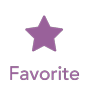
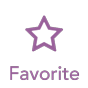
FIX - removed top and bottom edge inset from the tv height calculation, changed WineDetails UI, wired up new favorite button

Changed region(s): [[0.3409, 0.25, 0.6591, 0.5227]]

diff --git a/wineguide/views/WineDetailsVHTV.m b/wineguide/views/WineDetailsVHTV.m
@@ -30,36 +30,15 @@
 -(void)setupTextViewWithWine:(Wine *)wine fromRestaurant:(Restaurant *)restaurant
 {
     NSString *textViewString = @"";
-    NSRange nameRange = NSMakeRange(0, 0);
-    NSRange vintageRange = NSMakeRange(0, 0);
-    NSRange varietalRange = NSMakeRange(0, 0);
+    
     NSRange regionRange = NSMakeRange(0, 0);
     NSRange countryRange = NSMakeRange(0, 0);
     NSRange vineyardRange = NSMakeRange(0, 0);
     NSRange restaurantRange = NSMakeRange(0, 0);
     
-    if(wine.name){
-        nameRange = NSMakeRange([textViewString length], [wine.name length]);
-        textViewString = [textViewString stringByAppendingString:[wine.name capitalizedString]];
-    }
-    if(wine.vintage){
-        NSString *vintageString = [wine.vintage stringValue];
-        vintageRange = NSMakeRange([textViewString length], [vintageString length]);
-        textViewString = [textViewString stringByAppendingString:[NSString stringWithFormat:@"\n%@",[vintageString capitalizedString]]];
-    }
-    if(wine.varietals){
-        NSString *varietalsString = @" - ";
-        NSArray *varietals = [wine.varietals sortedArrayUsingDescriptors:@[[NSSortDescriptor sortDescriptorWithKey:@"name" ascending:YES]]];
-        for(Varietal *varietal in varietals){
-            varietalsString = [varietalsString stringByAppendingString:[NSString stringWithFormat:@"%@, ",varietal.name]];
-        }
-        varietalsString = [varietalsString substringToIndex:[varietalsString length]-2];
-        varietalRange = NSMakeRange([textViewString length]+1, [varietalsString length]);
-        textViewString = [textViewString stringByAppendingString:[varietalsString capitalizedString]];
-    }
     if(wine.region){
         regionRange = NSMakeRange([textViewString length]+1, [wine.region length]);
-        textViewString = [textViewString stringByAppendingString:[NSString stringWithFormat:@"\n%@",[wine.region capitalizedString]]];
+        textViewString = [textViewString stringByAppendingString:[wine.region capitalizedString]];
     }
     if(wine.country){
         if(wine.region){
@@ -110,9 +89,6 @@
     [self.textStorage addAttribute:NSForegroundColorAttributeName
                              value:[ColorSchemer sharedInstance].textPrimary
                              range:NSMakeRange(0, [self.textStorage length])];
-    [self.textStorage addAttribute:NSFontAttributeName
-                                        value:[UIFont preferredFontForTextStyle:UIFontTextStyleHeadline]
-                                        range:nameRange];
     [self.textStorage addAttribute:NSForegroundColorAttributeName
                                         value:[ColorSchemer sharedInstance].textSecondary
                                         range:restaurantRange];

diff --git a/wineguide/views/WineNameVHTV.m b/wineguide/views/WineNameVHTV.m
@@ -1,0 +1,71 @@
+//
+//  WineNameVHTV.m
+//  Gimme
+//
+//  Created by Charles Feinn on 12/13/13.
+//  Copyright (c) 2013 AppSimple. All rights reserved.
+//
+
+#import "WineNameVHTV.h"
+#import "Varietal.h"
+#import "Brand.h"
+#import "TastingNote.h"
+#import "WineUnit.h"
+#import "ColorSchemer.h"
+
+@implementation WineNameVHTV
+
+- (id)initWithFrame:(CGRect)frame
+{
+    self = [super initWithFrame:frame];
+    if (self) {
+        // Initialization code
+    }
+    return self;
+}
+
+
+#define V_HEIGHT 20
+
+-(void)setupTextViewWithWine:(Wine *)wine fromRestaurant:(Restaurant *)restaurant
+{
+    NSString *textViewString = @"";
+    NSRange nameRange = NSMakeRange(0, 0);
+    NSRange vintageRange = NSMakeRange(0, 0);
+    NSRange varietalRange = NSMakeRange(0, 0);
+    
+    if(wine.name){
+        nameRange = NSMakeRange([textViewString length], [wine.name length]);
+        textViewString = [textViewString stringByAppendingString:[wine.name capitalizedString]];
+    }
+    if(wine.vintage){
+        NSString *vintageString = [wine.vintage stringValue];
+        vintageRange = NSMakeRange([textViewString length], [vintageString length]);
+        textViewString = [textViewString stringByAppendingString:[NSString stringWithFormat:@"\n%@",[vintageString capitalizedString]]];
+    }
+    if(wine.varietals){
+        NSString *varietalsString = @" - ";
+        NSArray *varietals = [wine.varietals sortedArrayUsingDescriptors:@[[NSSortDescriptor sortDescriptorWithKey:@"name" ascending:YES]]];
+        for(Varietal *varietal in varietals){
+            varietalsString = [varietalsString stringByAppendingString:[NSString stringWithFormat:@"%@, ",varietal.name]];
+        }
+        varietalsString = [varietalsString substringToIndex:[varietalsString length]-2];
+        varietalRange = NSMakeRange([textViewString length]+1, [varietalsString length]);
+        textViewString = [textViewString stringByAppendingString:[varietalsString capitalizedString]];
+    }
+    
+    NSAttributedString *attributedText = [[NSAttributedString alloc] initWithString:textViewString];
+    self.attributedText = attributedText;
+    self.font = [UIFont preferredFontForTextStyle:UIFontTextStyleFootnote];
+    
+    [self.textStorage addAttribute:NSForegroundColorAttributeName
+                             value:[ColorSchemer sharedInstance].textPrimary
+                             range:NSMakeRange(0, [self.textStorage length])];
+    [self.textStorage addAttribute:NSFontAttributeName
+                             value:[UIFont preferredFontForTextStyle:UIFontTextStyleHeadline]
+                             range:nameRange];
+    
+    [self setHeightConstraintForAttributedText:self.textStorage andMinimumHeight:V_HEIGHT];
+}
+
+@end

diff --git a/wineguide/controllers/WineDetailsVC.m b/wineguide/controllers/WineDetailsVC.m
@@ -8,6 +8,7 @@
 
 #import "WineDetailsVC.h"
 #import "WineDetailsVHTV.h"
+#import "WineNameVHTV.h"
 #import "Brand.h"
 #import "ColorSchemer.h"
 
@@ -16,7 +17,9 @@
 @property (nonatomic, weak) Wine *wine;
 @property (nonatomic, weak) Restaurant *restaurant;
 @property (nonatomic, weak) IBOutlet WineDetailsVHTV *wineDetailsVHTV;
+@property (nonatomic, weak) IBOutlet WineNameVHTV *wineNameVHTV;
 @property (nonatomic, weak) IBOutlet UILabel *numReviewsLabel;
+@property (weak, nonatomic) IBOutlet UIButton *favoriteButton;
 
 @end
 
@@ -36,6 +39,7 @@
 {
     [super viewDidLoad];
 	// Do any additional setup after loading the view.
+    [self setupFavoriteButton];
 }
 
 - (void)didReceiveMemoryWarning
@@ -59,6 +63,7 @@
 
 -(void)setupTextForWine:(Wine *)wine
 {
+    [self.wineNameVHTV setupTextViewWithWine:wine fromRestaurant:self.restaurant];
     [self.wineDetailsVHTV setupTextViewWithWine:wine fromRestaurant:self.restaurant];
 }
 
@@ -68,6 +73,34 @@
     NSAttributedString *reviewsAS = [[NSAttributedString alloc] initWithString:reviewsText attributes:@{NSFontAttributeName : [UIFont preferredFontForTextStyle:UIFontTextStyleCaption1], NSForegroundColorAttributeName : [ColorSchemer sharedInstance].textPrimary}];
     self.numReviewsLabel.attributedText = reviewsAS;
 }
+
+
+#pragma mark - Favorites
+
+-(void)setupFavoriteButton
+{
+    if([self.wine.favorite boolValue] == YES){
+        [self.favoriteButton setImage:[UIImage imageNamed:@"button_favorited.png"] forState:UIControlStateNormal];
+    } else {
+        [self.favoriteButton setImage:[UIImage imageNamed:@"button_favorite.png"] forState:UIControlStateNormal];
+    }
+}
+
+
+
+- (IBAction)favoriteWine:(UIButton *)sender
+{
+    
+    if([self.wine.favorite boolValue] == YES){
+        self.wine.favorite = @NO;
+        [self.favoriteButton setImage:[UIImage imageNamed:@"button_favorite.png"] forState:UIControlStateNormal];
+    } else {
+        self.wine.favorite = @YES;
+        [self.favoriteButton setImage:[UIImage imageNamed:@"button_favorited.png"] forState:UIControlStateNormal];
+    }
+}
+
+
 
 -(void)logDetails
 {

diff --git a/wineguide/controllers/WineCDTVC.m b/wineguide/controllers/WineCDTVC.m
@@ -17,7 +17,6 @@
 @property (nonatomic, strong) Restaurant *restaurant;
 @property (nonatomic, strong) NSManagedObjectContext *context;
 
-@property (weak, nonatomic) IBOutlet UIBarButtonItem *favoriteButton;
 
 @end
 
@@ -36,7 +35,6 @@
 {
     [super viewDidLoad];
     self.tableView.tableHeaderView = self.wineDetailsViewController.view;
-    [self setupFavoriteButton];
 }
 
 - (void)didReceiveMemoryWarning
@@ -131,27 +129,7 @@
 }
 
 
-#pragma mark - Favorites
 
--(void)setupFavoriteButton
-{
-    if([self.wine.favorite boolValue] == YES){
-        [self.favoriteButton setImage:[UIImage imageNamed:@"favorite_y.png"]];
-    } else {
-        [self.favoriteButton setImage:[UIImage imageNamed:@"favorite_n.png"]];
-    }
-}
-
--(IBAction)favorite:(UIBarButtonItem *)sender
-{
-    if([self.wine.favorite boolValue] == YES){
-        self.wine.favorite = @NO;
-        [self.favoriteButton setImage:[UIImage imageNamed:@"favorite_n.png"]];
-    } else {
-        self.wine.favorite = @YES;
-        [self.favoriteButton setImage:[UIImage imageNamed:@"favorite_y.png"]];
-    }
-}
 
 
 @end

diff --git a/wineguide/views/VariableHeightTV.m b/wineguide/views/VariableHeightTV.m
@@ -33,8 +33,9 @@
         
         UITextView *tv = [[UITextView alloc] init];
         tv.attributedText = attributedText;
+        tv.textContainerInset = UIEdgeInsetsMake(0, 10, 0, 10);
         
-        CGSize tvSize = [tv sizeThatFits:CGSizeMake(self.bounds.size.width, 999999)];
+        CGSize tvSize = [tv sizeThatFits:CGSizeMake(self.bounds.size.width, FLT_MAX)];
         
         float height = tvSize.height > minimumHeight ? tvSize.height : minimumHeight;
         

diff --git a/wineguide/views/WineNameVHTV.h b/wineguide/views/WineNameVHTV.h
@@ -1,0 +1,17 @@
+//
+//  WineNameVHTV.h
+//  Gimme
+//
+//  Created by Charles Feinn on 12/13/13.
+//  Copyright (c) 2013 AppSimple. All rights reserved.
+//
+
+#import "VariableHeightTV.h"
+#import "Wine.h"
+#import "Restaurant.h"
+
+@interface WineNameVHTV : VariableHeightTV
+
+-(void)setupTextViewWithWine:(Wine *)wine fromRestaurant:(Restaurant *)restaurant;
+
+@end
